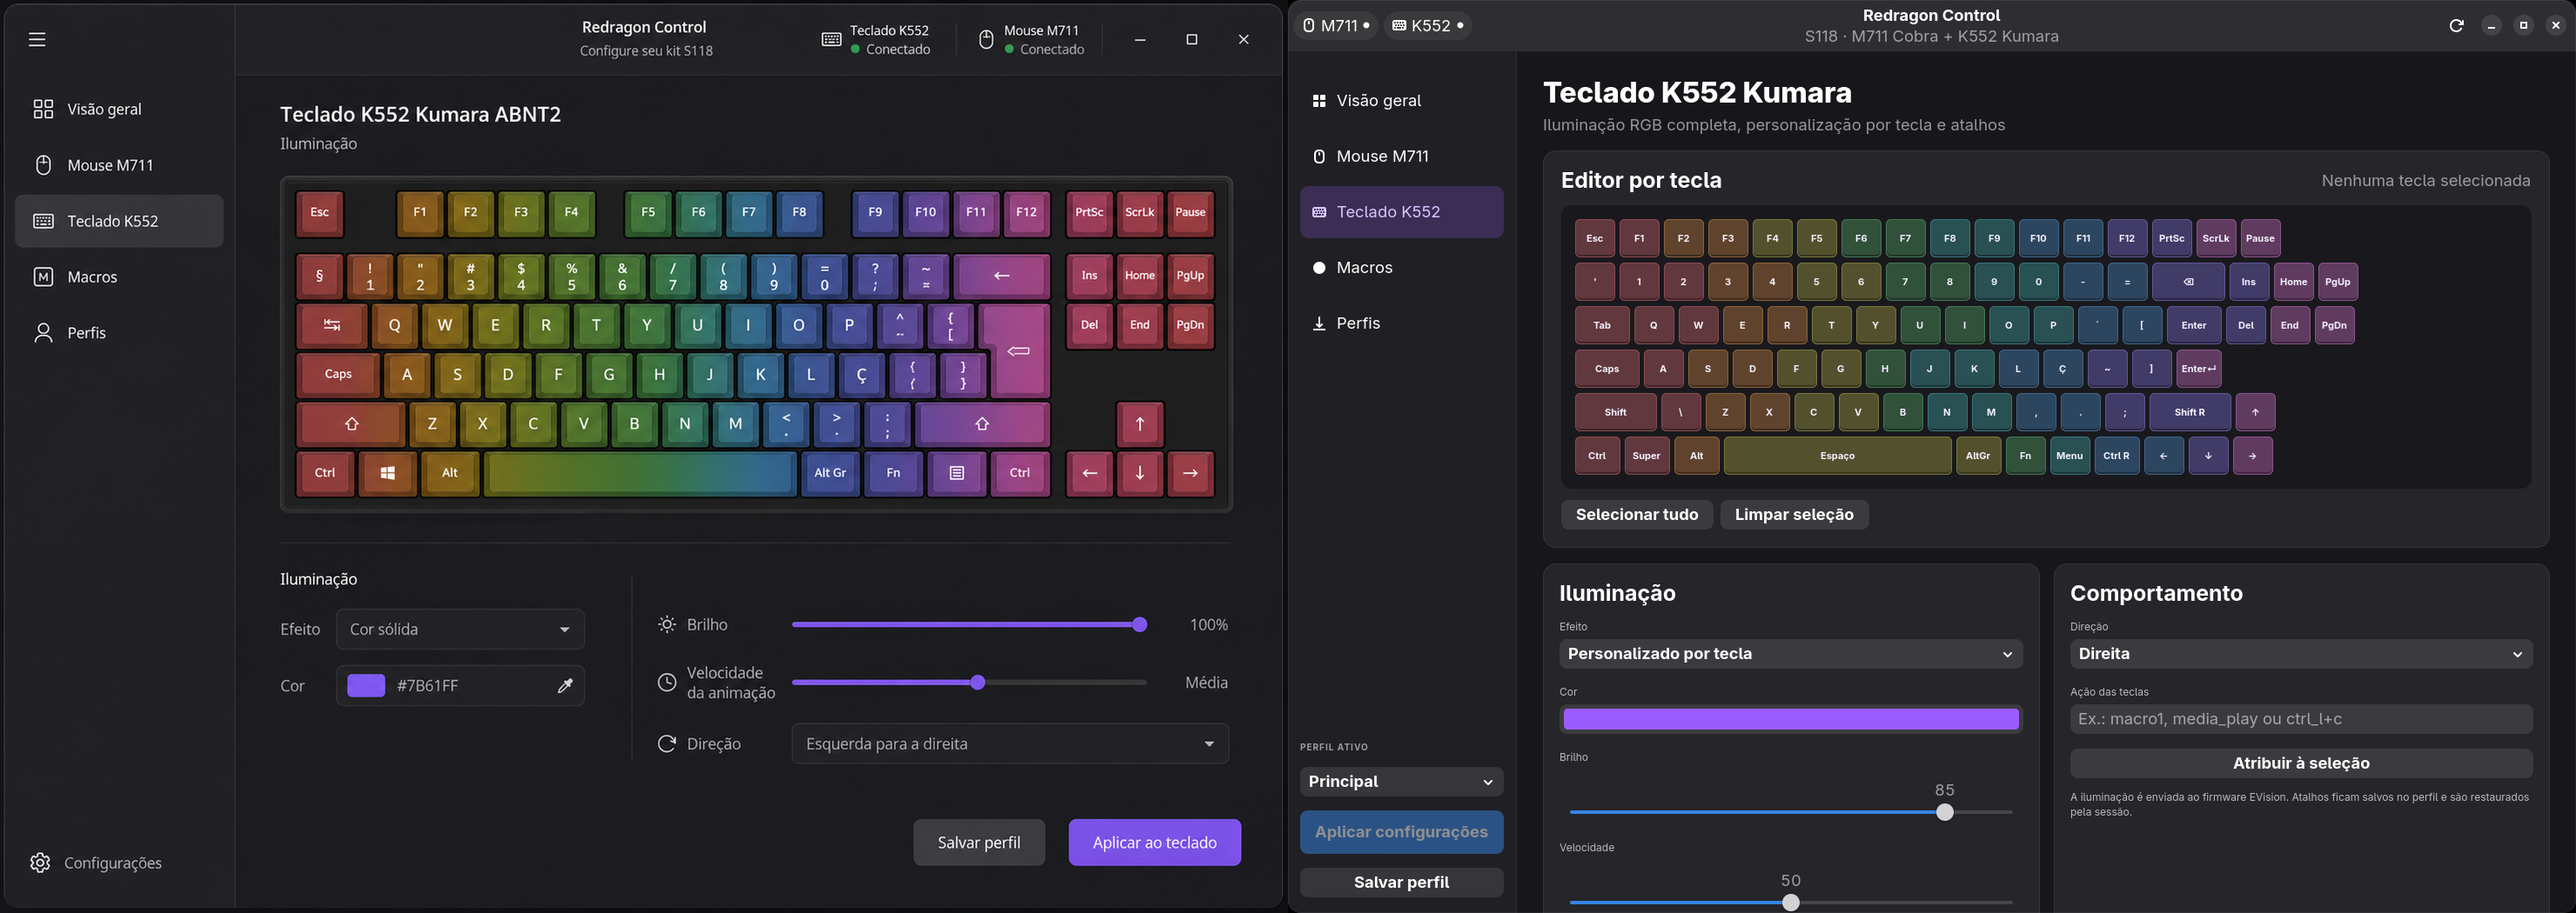
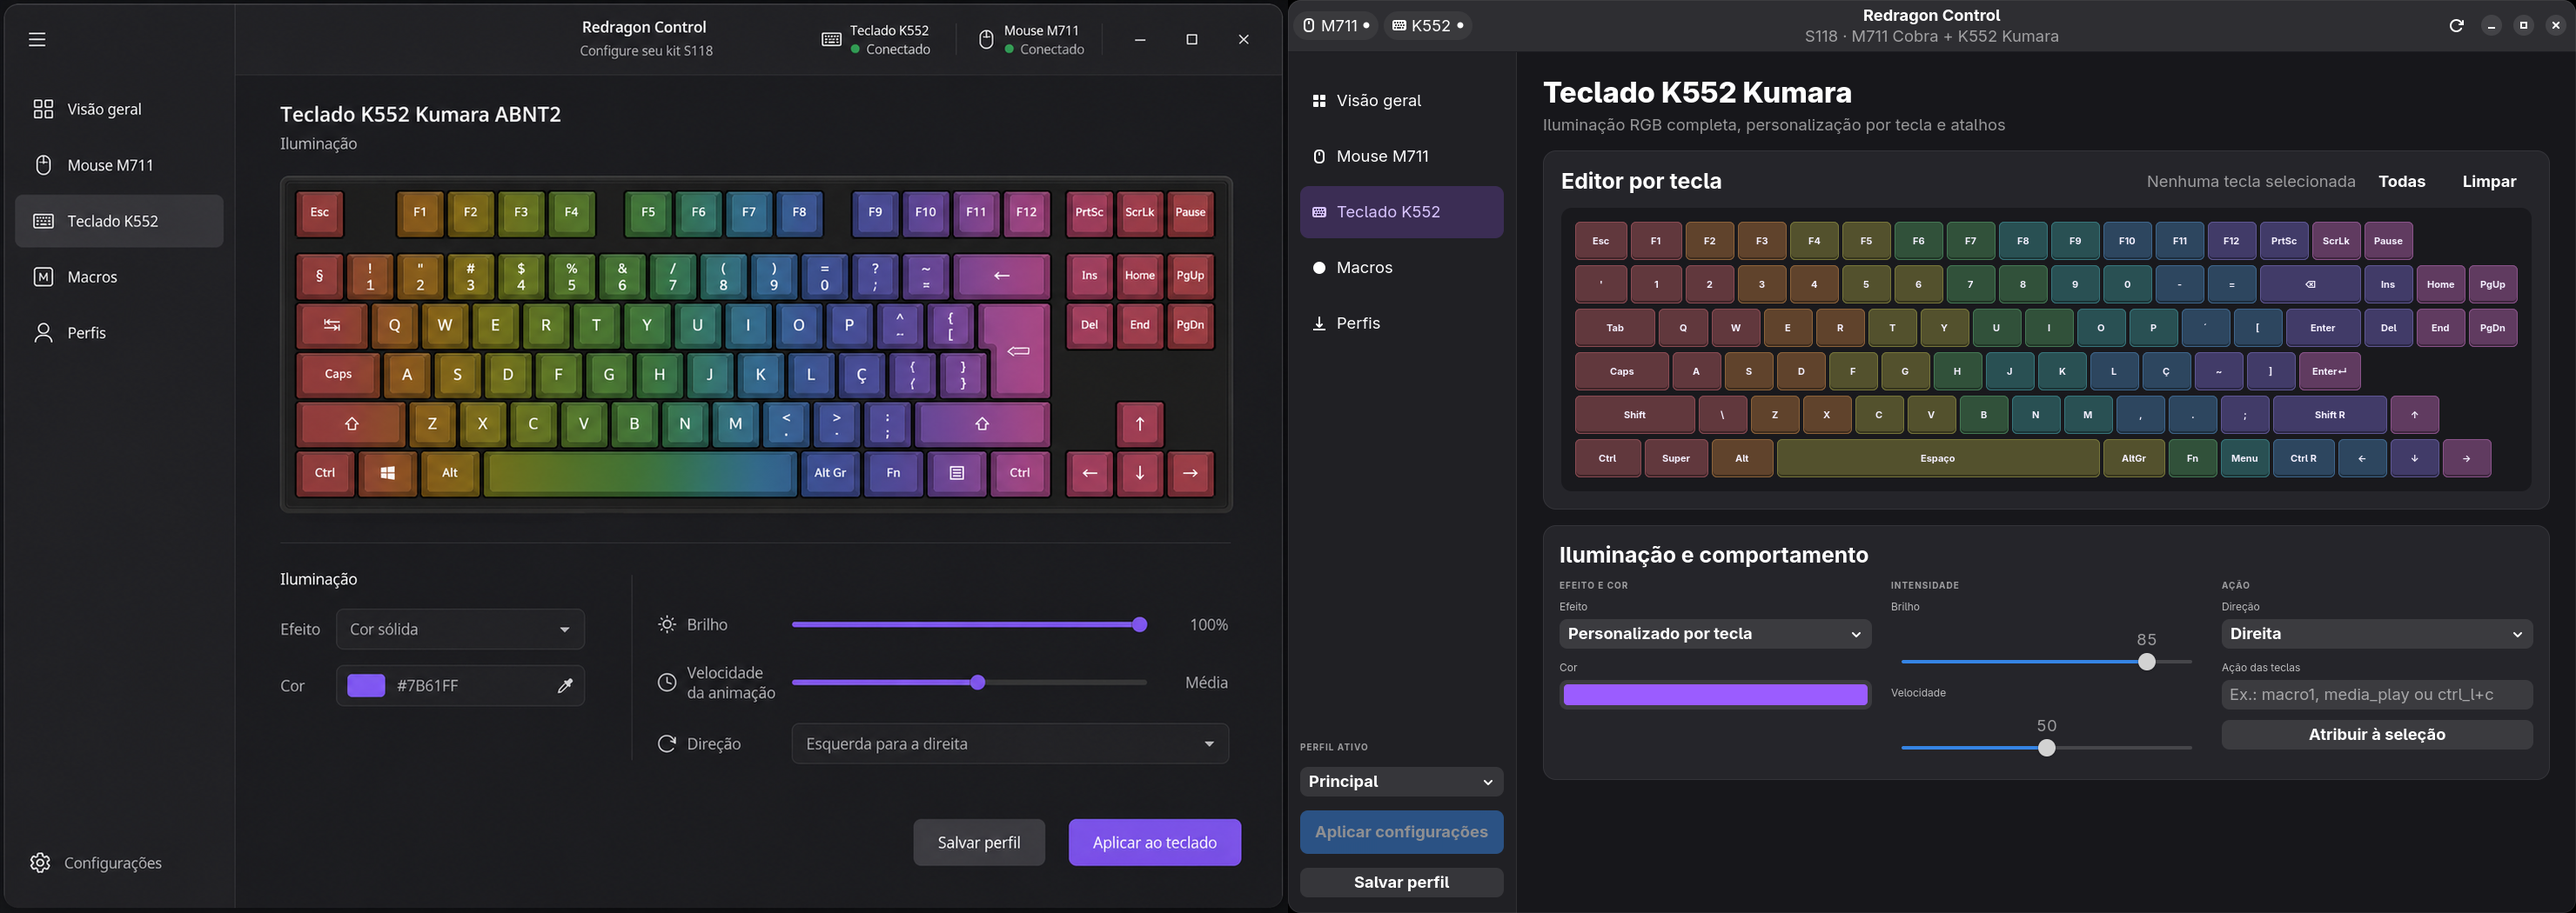
fix: fit keyboard controls within window

diff --git a/redragon_control/app.py b/redragon_control/app.py
@@ -125,18 +125,21 @@ class MainWindow(Adw.ApplicationWindow):
     def _keyboard_page(self):
         scroll, content = self._shell("Teclado K552 Kumara", "Iluminação RGB completa, personalização por tecla e atalhos")
         self.keyboard_page_scroll = scroll
-        editor = card(); editor.add_css_class("keyboard-editor"); head = Gtk.Box(spacing=12); head.append(label("Editor por tecla", "title-3")); self.selected_keys_label = label("Nenhuma tecla selecionada", "dim-label", 1); self.selected_keys_label.set_hexpand(True); head.append(self.selected_keys_label); editor.append(head)
-        kscroll = Gtk.ScrolledWindow(vscrollbar_policy=Gtk.PolicyType.NEVER, min_content_height=322); keyboard = Gtk.Box(orientation=Gtk.Orientation.VERTICAL, spacing=6); keyboard.add_css_class("keyboard-canvas")
+        editor = card(); editor.add_css_class("keyboard-editor"); head = Gtk.Box(spacing=8); head.append(label("Editor por tecla", "title-3")); self.selected_keys_label = label("Nenhuma tecla selecionada", "dim-label", 1); self.selected_keys_label.set_hexpand(True); head.append(self.selected_keys_label); all_button = Gtk.Button(label="Todas"); all_button.add_css_class("flat"); all_button.connect("clicked", lambda *_: self._select_all()); clear = Gtk.Button(label="Limpar"); clear.add_css_class("flat"); clear.connect("clicked", lambda *_: self._clear_selection()); head.append(all_button); head.append(clear); editor.append(head)
+        kscroll = Gtk.ScrolledWindow(hscrollbar_policy=Gtk.PolicyType.NEVER, vscrollbar_policy=Gtk.PolicyType.NEVER, min_content_height=322); keyboard = Gtk.Grid(column_spacing=4, row_spacing=6, column_homogeneous=True, row_homogeneous=True, hexpand=True); keyboard.add_css_class("keyboard-canvas")
         key_counter = 0
-        for row_data in KEY_ROWS:
-            row = Gtk.Box(spacing=5)
+        for row_index, row_data in enumerate(KEY_ROWS):
+            column = 0
             for key, width in row_data:
-                button = Gtk.Button(label=key); button.add_css_class("keyboard-key"); button.add_css_class(f"key-tone-{min(7, key_counter * 8 // max(1, len(row_data)))}"); button.set_size_request(round(42 * width), 42); button.connect("clicked", self._on_key_clicked, key); row.append(button); self._key_buttons[key] = button; key_counter += 1
+                span = round(width * 4); button = Gtk.Button(label=key); button.add_css_class("keyboard-key"); button.add_css_class(f"key-tone-{min(7, key_counter * 8 // max(1, len(row_data)))}"); button.set_size_request(-1, 42); button.connect("clicked", self._on_key_clicked, key); keyboard.attach(button, column, row_index, span, 1); self._key_buttons[key] = button; key_counter += 1; column += span
             key_counter = 0
-            keyboard.append(row)
-        kscroll.set_child(keyboard); editor.append(kscroll); actions = Gtk.Box(spacing=8); all_button = Gtk.Button(label="Selecionar tudo"); all_button.connect("clicked", lambda *_: self._select_all()); clear = Gtk.Button(label="Limpar seleção"); clear.connect("clicked", lambda *_: self._clear_selection()); actions.append(all_button); actions.append(clear); editor.append(actions); content.append(editor)
-        controls = Gtk.Box(spacing=16, homogeneous=True); light = card(); light.append(label("Iluminação", "title-3")); self.keyboard_mode = self._dropdown(light, "Efeito", [KEYBOARD_MODE_LABELS[v] for v in KEYBOARD_MODES], self._keyboard_changed); self.keyboard_color = Gtk.ColorDialogButton(dialog=Gtk.ColorDialog(title="Cor das teclas")); self.keyboard_color.connect("notify::rgba", self._on_keyboard_color); light.append(self._field("Cor", self.keyboard_color)); self.keyboard_brightness = Gtk.Scale.new_with_range(Gtk.Orientation.HORIZONTAL, 0, 100, 1); self.keyboard_brightness.set_draw_value(True); self.keyboard_brightness.connect("value-changed", self._keyboard_changed); light.append(self._field("Brilho", self.keyboard_brightness)); self.keyboard_speed = Gtk.Scale.new_with_range(Gtk.Orientation.HORIZONTAL, 0, 100, 1); self.keyboard_speed.set_draw_value(True); self.keyboard_speed.connect("value-changed", self._keyboard_changed); light.append(self._field("Velocidade", self.keyboard_speed)); controls.append(light)
-        behavior = card(); behavior.append(label("Comportamento", "title-3")); self.direction = self._dropdown(behavior, "Direção", ["Direita", "Esquerda", "Cima", "Baixo"], self._keyboard_changed); self.key_action = Gtk.Entry(placeholder_text="Ex.: macro1, media_play ou ctrl_l+c"); behavior.append(self._field("Ação das teclas", self.key_action)); assign = Gtk.Button(label="Atribuir à seleção"); assign.connect("clicked", self._assign_key_action); behavior.append(assign); note = label("A iluminação é enviada ao firmware EVision. Atalhos ficam salvos no perfil e são restaurados pela sessão.", "caption"); note.set_wrap(True); behavior.append(note); controls.append(behavior); content.append(controls); return scroll
+        kscroll.set_child(keyboard); editor.append(kscroll); content.append(editor)
+
+        settings = card(); settings.add_css_class("compact-settings"); settings.append(label("Iluminação e comportamento", "title-3")); columns = Gtk.Grid(column_spacing=22, row_spacing=8, column_homogeneous=True)
+        light = Gtk.Box(orientation=Gtk.Orientation.VERTICAL, spacing=8); light.append(label("EFEITO E COR", "section-kicker")); self.keyboard_mode = self._dropdown(light, "Efeito", [KEYBOARD_MODE_LABELS[v] for v in KEYBOARD_MODES], self._keyboard_changed); self.keyboard_color = Gtk.ColorDialogButton(dialog=Gtk.ColorDialog(title="Cor das teclas")); self.keyboard_color.connect("notify::rgba", self._on_keyboard_color); light.append(self._field("Cor", self.keyboard_color)); columns.attach(light, 0, 0, 1, 1)
+        levels = Gtk.Box(orientation=Gtk.Orientation.VERTICAL, spacing=8); levels.append(label("INTENSIDADE", "section-kicker")); self.keyboard_brightness = Gtk.Scale.new_with_range(Gtk.Orientation.HORIZONTAL, 0, 100, 1); self.keyboard_brightness.set_draw_value(True); self.keyboard_brightness.connect("value-changed", self._keyboard_changed); levels.append(self._field("Brilho", self.keyboard_brightness)); self.keyboard_speed = Gtk.Scale.new_with_range(Gtk.Orientation.HORIZONTAL, 0, 100, 1); self.keyboard_speed.set_draw_value(True); self.keyboard_speed.connect("value-changed", self._keyboard_changed); levels.append(self._field("Velocidade", self.keyboard_speed)); columns.attach(levels, 1, 0, 1, 1)
+        behavior = Gtk.Box(orientation=Gtk.Orientation.VERTICAL, spacing=8); behavior.append(label("AÇÃO", "section-kicker")); self.direction = self._dropdown(behavior, "Direção", ["Direita", "Esquerda", "Cima", "Baixo"], self._keyboard_changed); self.key_action = Gtk.Entry(placeholder_text="Ex.: macro1, media_play ou ctrl_l+c"); behavior.append(self._field("Ação das teclas", self.key_action)); assign = Gtk.Button(label="Atribuir à seleção"); assign.connect("clicked", self._assign_key_action); behavior.append(assign); columns.attach(behavior, 2, 0, 1, 1)
+        settings.append(columns); content.append(settings); return scroll
 
     def _scroll_keyboard_top(self):
         self.keyboard_page_scroll.get_vadjustment().set_value(0)

diff --git a/design-qa.md b/design-qa.md
@@ -10,11 +10,11 @@
 
 ## Full-view comparison evidence
 
-The source and implementation were placed together in one 2960 × 1050 comparison image. The final implementation preserves the source's dark GNOME layout, persistent left navigation, device state in the header, K552-focused hierarchy, full ABNT2 keyboard editor, RGB controls, profile selector and primary apply action. The larger default window keeps the complete keyboard visible without compressing the keys.
+The source and implementation were placed together in one 2960 × 1050 comparison image. The final implementation preserves the source's dark GNOME layout, persistent left navigation, device state in the header, K552-focused hierarchy, full ABNT2 keyboard editor, RGB controls, profile selector and primary apply action. The complete keyboard and the compact horizontal settings panel are visible simultaneously without scrolling.
 
 ## Focused comparison evidence
 
-The keyboard editor was checked as the critical focused region. All rows fit inside the editor card; the navigation cluster, ABNT2 characters, TKL navigation keys, rainbow progression, selection actions and card boundaries are visible and readable. A separate crop was not needed because the equal-size full-view comparison renders key labels legibly.
+The keyboard editor and lower settings panel were checked as the critical focused regions. The proportional grid fills the editor frame; all rows, the navigation cluster, ABNT2 characters, TKL navigation keys, rainbow progression and card boundaries are visible and readable. The three settings groups fit on one horizontal row. A separate crop was not needed because the equal-size full-view comparison renders labels legibly.
 
 ## Required fidelity surfaces
 
@@ -35,6 +35,11 @@ The keyboard editor was checked as the critical focused region. All rows fit ins
    - Fix: restored 42 px keys and used the larger source-proportioned window.
 3. Final capture — passed.
    - Post-fix evidence: `/mnt/NVME_Projetos/MouseKeyboard/design/comparison-keyboard.png` shows the entire keyboard and the main RGB/behavior controls within the intended viewport.
+4. User screenshot follow-up — blocked, then passed after revision.
+   - P1: the lower settings cards exceeded the viewport and required scrolling.
+   - P2: fixed-width keys occupied only part of the editor frame, leaving excessive empty space on the right.
+   - Fix: consolidated illumination, intensity and action controls into one horizontal card; moved selection actions into the editor header; replaced fixed key rows with a proportional 72-column grid.
+   - Post-fix evidence: `/mnt/NVME_Projetos/MouseKeyboard/design/comparison-keyboard.png` shows all primary controls and a full-width keyboard in the 1480 × 1050 viewport.
 
 ## Findings
 
